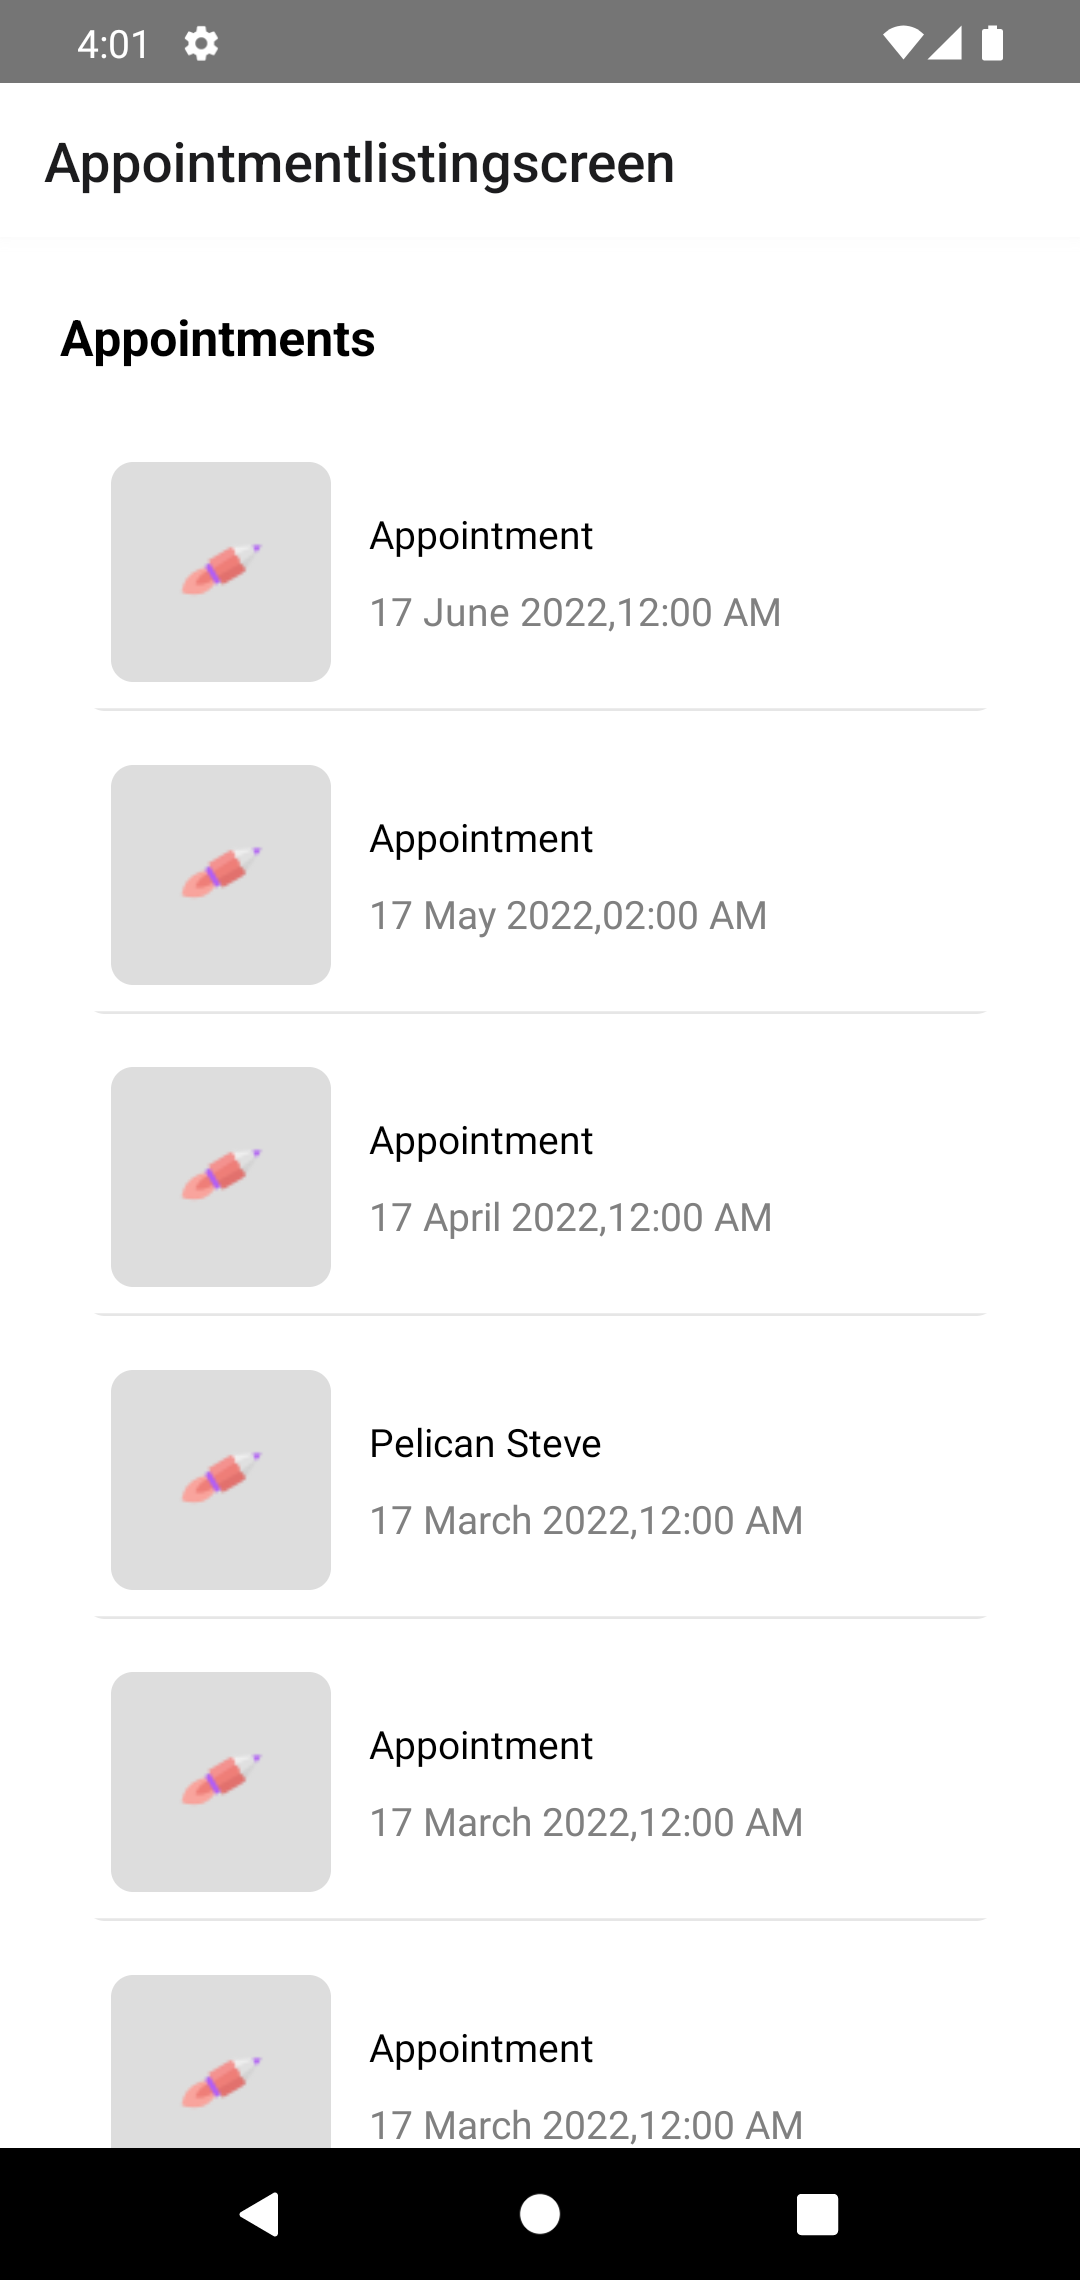
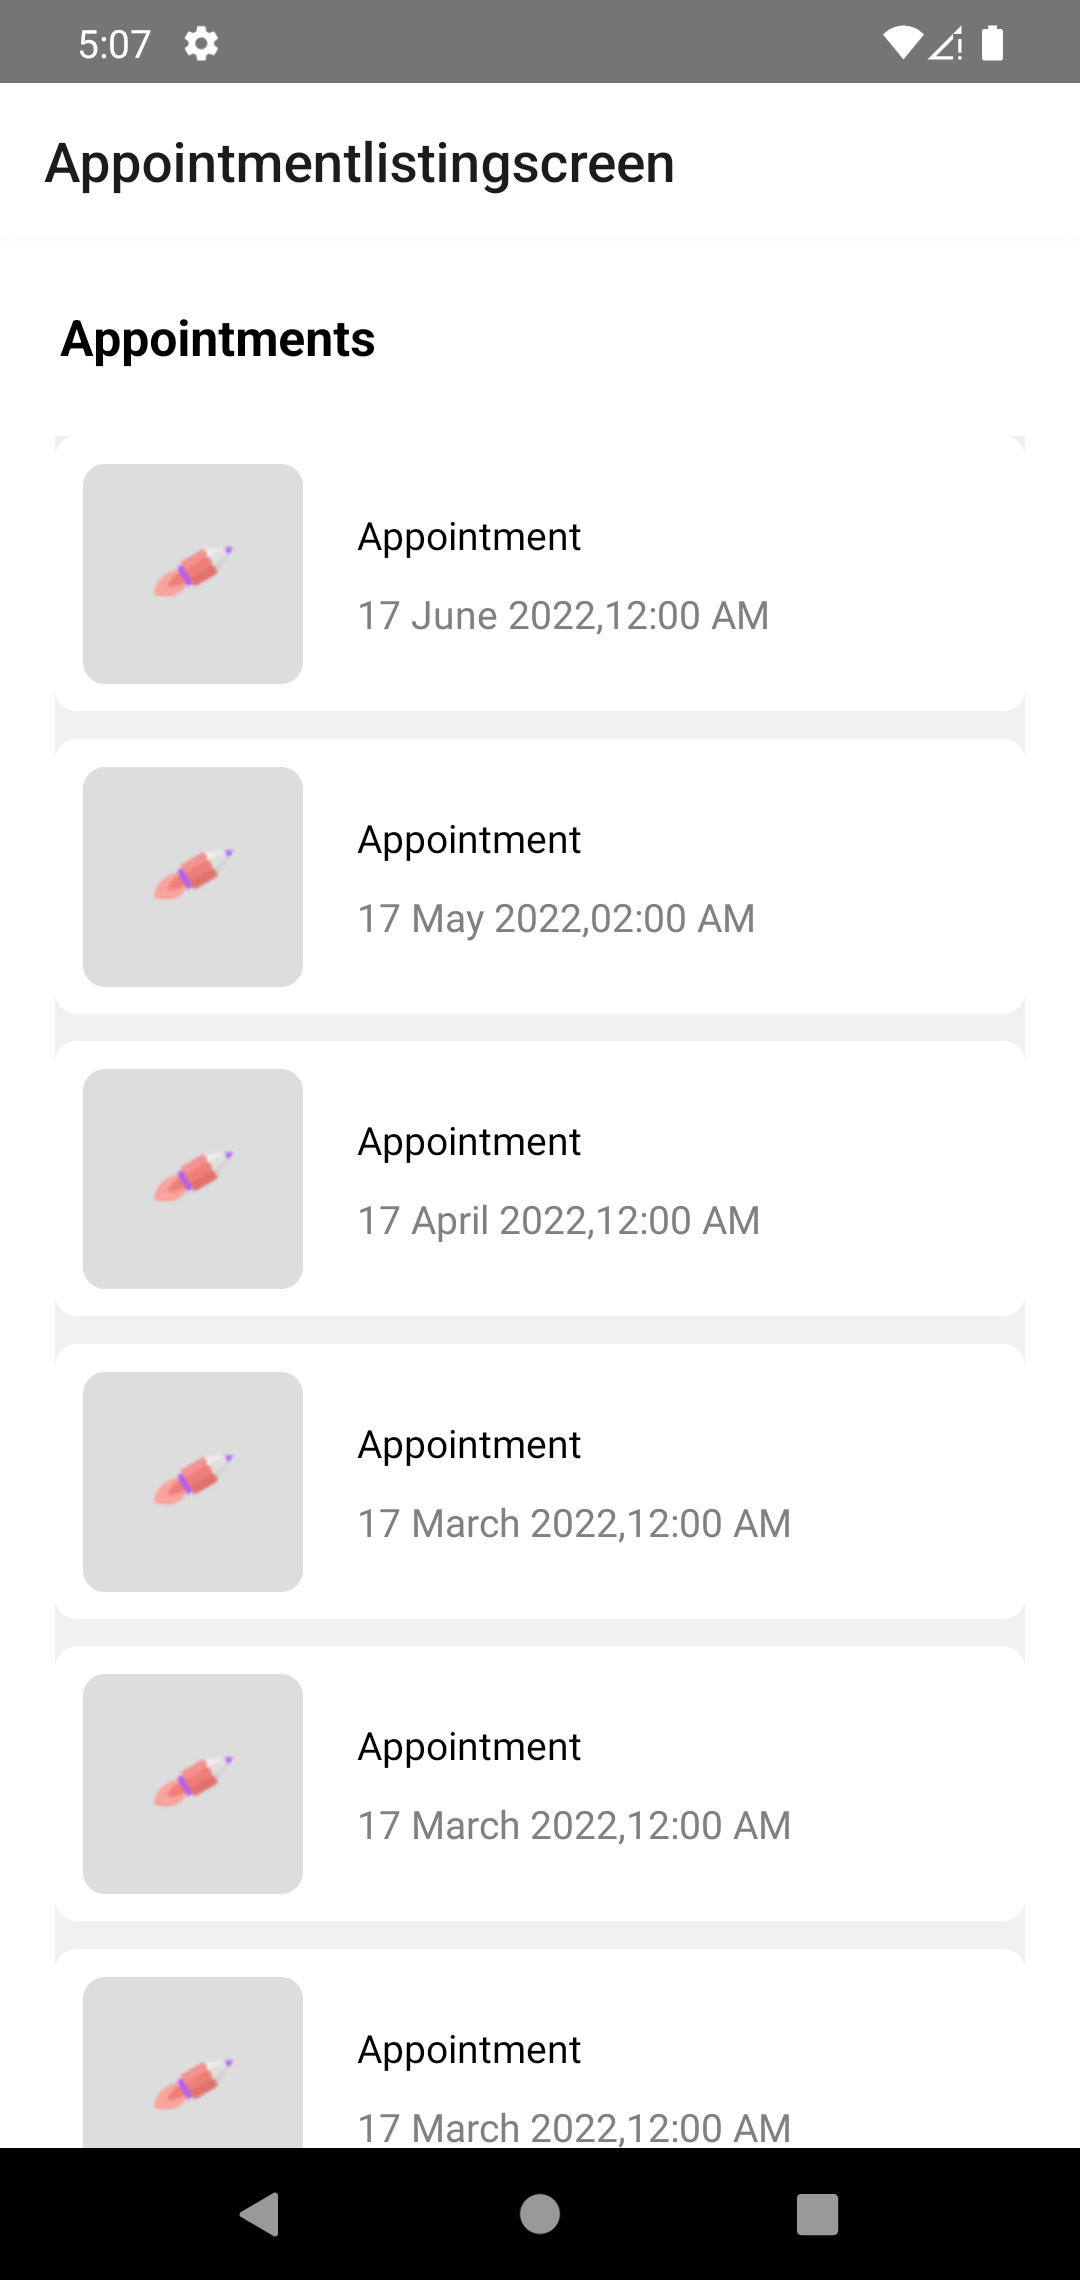
appointmentlist screens previews updated

diff --git a/screens/Reserveseatscreen/index.js b/screens/Reserveseatscreen/index.js
@@ -6,117 +6,159 @@ const ReserveSeatScreen = params => {
   const [seats, setSeats] = useState([]);
   let count = 1;
   useEffect(() => {
-    setSeats([[{
-      position: 1,
-      status: "booked"
-    }, {
-      position: 2,
-      status: "available"
-    }, {
-      position: 3,
-      status: "available"
-    }, {
-      position: 4,
-      status: "booked"
-    }, {
-      position: 5,
-      status: "available"
-    }, {
-      position: 6,
-      status: "available"
-    }, {
-      position: 7,
-      status: "available"
-    }, {
-      position: 8,
-      status: "available"
-    }, {
-      position: 9,
-      status: "available"
-    }, {
-      position: 10,
-      status: "reserved"
-    }, {
-      position: 11,
-      status: "reserved"
-    }, {
-      position: 12,
-      status: "reserved"
-    }, {
-      position: 13,
-      status: "available"
-    }, {
-      position: 14,
-      status: "available"
-    }, {
-      position: 15,
-      status: "available"
-    }, {
-      position: 16,
-      status: "booked"
-    }, {
-      position: 17,
-      status: "booked"
-    }, {
-      position: 18,
-      status: "booked"
-    }], [{
-      position: 1,
-      status: "available"
-    }, {
-      position: 2,
-      status: "available"
-    }, {
-      position: 3,
-      status: "available"
-    }, {
-      position: 4,
-      status: "booked"
-    }, {
-      position: 5,
-      status: "available"
-    }, {
-      position: 6,
-      status: "available"
-    }, {
-      position: 7,
-      status: "available"
-    }, {
-      position: 8,
-      status: "booked"
-    }, {
-      position: 9,
-      status: "available"
-    }, {
-      position: 10,
-      status: "available"
-    }, {
-      position: 11,
-      status: "available"
-    }, {
-      position: 12,
-      status: "available"
-    }, {
-      position: 13,
-      status: "booked"
-    }, {
-      position: 14,
-      status: "booked"
-    }, {
-      position: 15,
-      status: "booked"
-    }, {
-      position: 16,
-      status: "available"
-    }, {
-      position: 17,
-      status: "available"
-    }, {
-      position: 18,
-      status: "available"
-    }]]);
+    setSeats([
+      [
+        {
+          position: 1,
+          status: "booked"
+        },
+        {
+          position: 2,
+          status: "available"
+        },
+        {
+          position: 3,
+          status: "available"
+        },
+        {
+          position: 4,
+          status: "booked"
+        },
+        {
+          position: 5,
+          status: "available"
+        },
+        {
+          position: 6,
+          status: "available"
+        },
+        {
+          position: 7,
+          status: "available"
+        },
+        {
+          position: 8,
+          status: "available"
+        },
+        {
+          position: 9,
+          status: "available"
+        },
+        {
+          position: 10,
+          status: "reserved"
+        },
+        {
+          position: 11,
+          status: "reserved"
+        },
+        {
+          position: 12,
+          status: "reserved"
+        },
+        {
+          position: 13,
+          status: "available"
+        },
+        {
+          position: 14,
+          status: "available"
+        },
+        {
+          position: 15,
+          status: "available"
+        },
+        {
+          position: 16,
+          status: "booked"
+        },
+        {
+          position: 17,
+          status: "booked"
+        },
+        {
+          position: 18,
+          status: "booked"
+        }
+      ],
+      [
+        {
+          position: 1,
+          status: "available"
+        },
+        {
+          position: 2,
+          status: "available"
+        },
+        {
+          position: 3,
+          status: "available"
+        },
+        {
+          position: 4,
+          status: "booked"
+        },
+        {
+          position: 5,
+          status: "available"
+        },
+        {
+          position: 6,
+          status: "available"
+        },
+        {
+          position: 7,
+          status: "available"
+        },
+        {
+          position: 8,
+          status: "booked"
+        },
+        {
+          position: 9,
+          status: "available"
+        },
+        {
+          position: 10,
+          status: "available"
+        },
+        {
+          position: 11,
+          status: "available"
+        },
+        {
+          position: 12,
+          status: "available"
+        },
+        {
+          position: 13,
+          status: "booked"
+        },
+        {
+          position: 14,
+          status: "booked"
+        },
+        {
+          position: 15,
+          status: "booked"
+        },
+        {
+          position: 16,
+          status: "available"
+        },
+        {
+          position: 17,
+          status: "available"
+        },
+        {
+          position: 18,
+          status: "available"
+        }
+      ]
+    ]);
   }, []);
-  return <View style={styles.container}>
+  return (
+    <View style={styles.container}>
       <TabView tabTitles={["New", "Booked"]} selected={0} />
       <View style={styles.subPallete}>
         <View style={styles.planDes}>
@@ -139,12 +181,18 @@ const ReserveSeatScreen = params => {
         <Text style={styles.keyText}>Reserved</Text>
       </View>
       <View style={styles.seats}>
-        {seats.map((side, index1) => <View key={index1} style={styles.side}>
-            {side.map((seat, index2) => <View key={index2}>
-                {index2 < 3 && <Text style={styles.columnNumber}>{count++}</Text>}
+        {seats.map((side, index1) => (
+          <View key={index1} style={styles.side}>
+            {side.map((seat, index2) => (
+              <View key={index2}>
+                {index2 < 3 && (
+                  <Text style={styles.columnNumber}>{count++}</Text>
+                )}
                 <Seat status={seat.status} />
-              </View>)}
-          </View>)}
+              </View>
+            ))}
+          </View>
+        ))}
       </View>
       <View style={styles.priceContainer}>
         <View style={styles.description}>
@@ -156,7 +204,8 @@ const ReserveSeatScreen = params => {
         </View>
       </View>
       <Button buttonText={"Book now"} />
-    </View>;
+    </View>
+  );
 };
 
 const styles = StyleSheet.create({
@@ -257,9 +306,7 @@ const styles = StyleSheet.create({
 });
 export default ReserveSeatScreen;
 
-const Seat = ({
-  status
-}) => {
+const Seat = ({ status }) => {
   let color = "#fff";
 
   if (status === "booked") {
@@ -287,15 +334,22 @@ const seatStyles = StyleSheet.create({
   }
 });
 
-const TabView = ({
-  tabTitles,
-  selected
-}) => {
-  return <View style={tabViewStyles.paletteContainer}>
-      {tabTitles.map((title, index) => <View style={index === selected ? tabViewStyles.selected : tabViewStyles.unSelected} key={index}>
+const TabView = ({ tabTitles, selected }) => {
+  return (
+    <View style={tabViewStyles.paletteContainer}>
+      {tabTitles.map((title, index) => (
+        <View
+          style={
+            index === selected
+              ? tabViewStyles.selected
+              : tabViewStyles.unSelected
+          }
+          key={index}>
           <Text>{title}</Text>
-        </View>)}
-    </View>;
+        </View>
+      ))}
+    </View>
+  );
 };
 
 const tabViewStyles = StyleSheet.create({
@@ -330,11 +384,7 @@ const tabViewStyles = StyleSheet.create({
   }
 });
 
-const Button = ({
-  onPress,
-  buttonText,
-  outline
-}) => {
+const Button = ({ onPress, buttonText, outline }) => {
   const btnStyle = {
     backgroundColor: outline ? "#fff" : "#000",
     borderColor: outline ? "#000" : "#fff",
@@ -343,11 +393,13 @@ const Button = ({
   const btnText = {
     color: outline ? "#000" : "#fff"
   };
-  return <View style={buttonStyles.btnContainer}>
+  return (
+    <View style={buttonStyles.btnContainer}>
       <Pressable style={[buttonStyles.btn, btnStyle]} onPress={onPress}>
         <Text style={[buttonStyles.btnText, btnText]}>{buttonText}</Text>
       </Pressable>
-    </View>;
+    </View>
+  );
 };
 
 const buttonStyles = StyleSheet.create({

diff --git a/screens/Appointmentlistscreen/index.js b/screens/Appointmentlistscreen/index.js
@@ -104,7 +104,7 @@ const styles = StyleSheet.create({
     backgroundColor: "#f1f1f1"
   },
   listContainer: {
-    margin: 0 // backgroundColor: '#f1f1f1',
+    margin: 0
   }
 });
 export default AppointmentListScreen;
